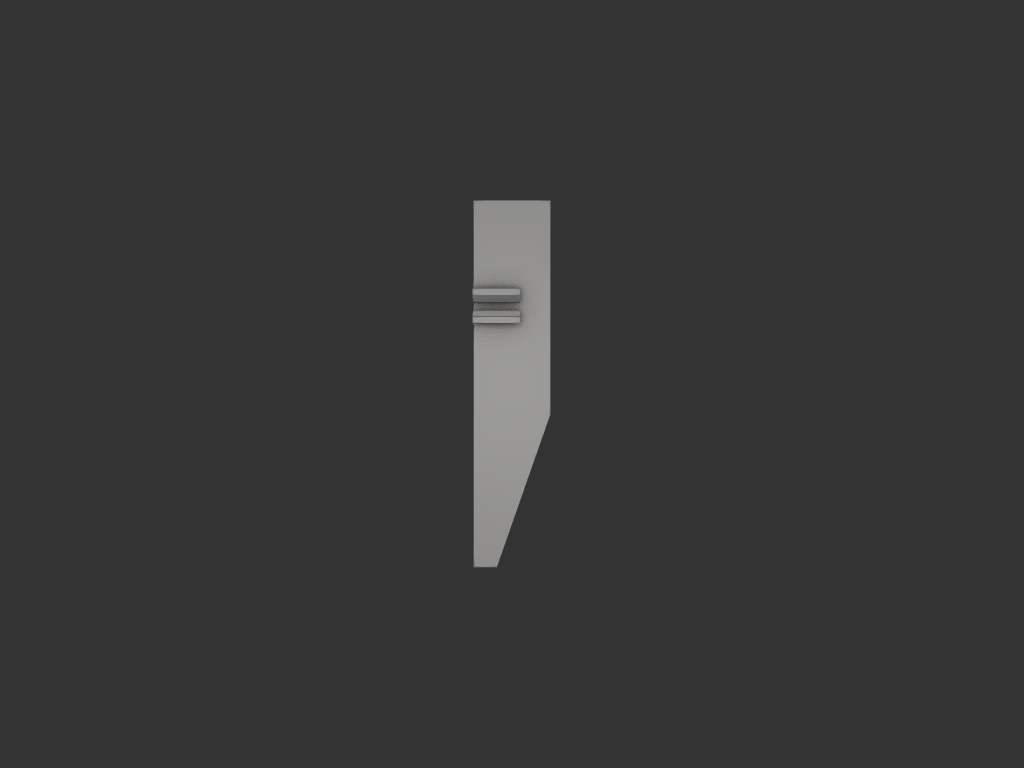
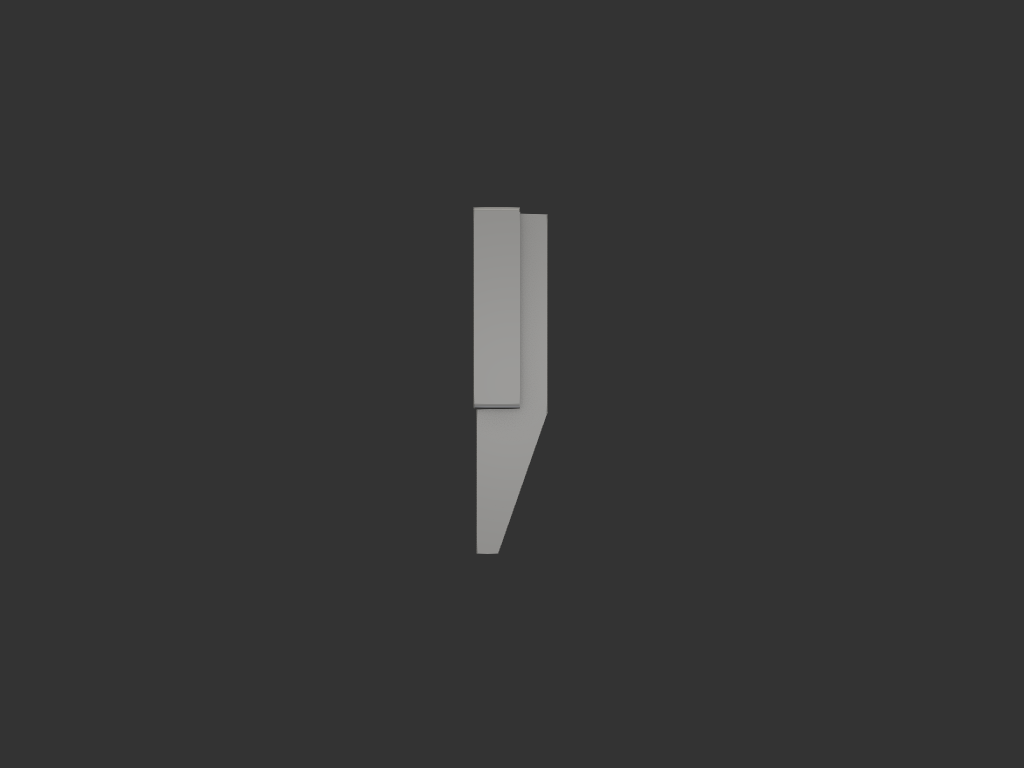
igt_assembly_jig v2: 누름 요철 제거, D-핸들 그립으로 재설계
- 출력 테스트: 누름 요철은 그립에 도움 안 됨 → 제거 (누름 도구는 별도 파트로)
- D-핸들: 창 50H × 손가락 틈 30, 바 4×15(전단 하중이라 얇게), 스트럿 8
- 창 안쪽 테두리 1.5 챔퍼 (손 보호), 정렬변 배치로 뉘여 출력 서포트리스 유지

diff --git a/models/camping/igt_assembly_jig/model.py b/models/camping/igt_assembly_jig/model.py
@@ -17,6 +17,7 @@
 
 from build123d import (
     Align,
+    Axis,
     Box,
     BuildPart,
     BuildSketch,
@@ -24,7 +25,9 @@ from build123d import (
     Mode,
     Plane,
     Polygon,
+    chamfer,
     extrude,
+    fillet,
 )
 
 from models._lib.iter import finalize_iteration
@@ -47,14 +50,19 @@ Y_NARROW = WALL + GAP          # 7
 Y_OUT = WALL + GAP + WALL      # 11 U바닥 바깥 두께
 Z_TAPER = H - GRIP_H           # 50 테이퍼 상단
 
-# ---- 누름 가이드 요철 (넓은 다리 바깥면, 그립 구간 가운데) ----
-# 요철 2줄 사이 3mm 홈에 철판 테두리를 물려 위에서 찍어누르는 가이드
-# + 뽑을 때 손가락 걸리는 그립. 정렬변(x=0) 쪽에 붙여 뉘여 출력 시 베드 접지.
-RIB_L = 15.0       # 요철 길이 (X, 정렬변에서 시작)
-RIB_T = 4.0        # 요철 두께 (Z)
-RIB_P = 10.0       # 돌출 (−Y)
-RIB_CH = 2.0       # 홈 입구 45° 챔퍼 (철판 유도)
-Z_RIB_C = (Z_TAPER + H) / 2    # 85 그립 구간 가운데
+# ---- D-핸들 (넓은 다리 바깥면 −Y, 그립 구간) ----
+# 출력 테스트 결과 누름 요철은 그립에 도움 안 돼 제거(v2). 손가락 2~3개를
+# 면과 바 사이 틈에 끼워 감아쥐는 세로 바 — 수직 인양에 유리.
+# 정렬변(x=0)에 붙여 뉘여 출력 시 베드 접지 (서포트리스).
+HDL_W = 15.0       # 핸들 폭 (X, 정렬변에서 시작)
+HDL_GAP = 30.0     # 손가락 틈 (면 ↔ 바 안쪽) — 장갑 고려
+HDL_BAR = 4.0      # 바 두께 (Y) — 하중은 스트럿으로 빠지는 전단이라 얇게
+HDL_Z0 = 52.0      # 핸들 하단
+HDL_Z1 = 118.0     # 핸들 상단
+HDL_STRUT = 8.0    # 위아래 연결 스트럿 두께 → 창(손가락) 높이 50
+HDL_R_IN = 6.0     # 창 안쪽 코너 필렛
+HDL_R_OUT = 1.5    # 바 바깥 코너 필렛 (바 4mm 안에서)
+HDL_CH = 1.5       # 창 안쪽 테두리 챔퍼 (손가락 닿는 모서리)
 
 
 def build_jig():
@@ -88,28 +96,37 @@ def build_jig():
             )
         extrude(ch.sketch, amount=W_TIP, mode=Mode.SUBTRACT)
 
-        # 누름 가이드 요철 2줄 (아래/위), 사이 홈 = GAP(3mm)
-        z_lo = Z_RIB_C - GAP / 2 - RIB_T   # 79.5 아래 요철 하단
-        z_hi = Z_RIB_C + GAP / 2           # 86.5 위 요철 하단
-        for z0 in (z_lo, z_hi):
-            with Locations((0, -RIB_P, z0)):
-                Box(RIB_L, RIB_P, RIB_T,
-                    align=(Align.MIN, Align.MIN, Align.MIN))
-        # 홈 입구(요철 끝, y=-RIB_P) 45° 챔퍼 — 홈이 3→7mm 로 벌어짐
-        with BuildSketch(Plane.YZ) as rch:
-            Polygon(   # 아래 요철의 홈쪽 모서리
-                (-RIB_P, z_lo + RIB_T),
-                (-RIB_P + RIB_CH, z_lo + RIB_T),
-                (-RIB_P, z_lo + RIB_T - RIB_CH),
+        # D-핸들: YZ 프로파일 C자 (스트럿 2 + 바) → X로 HDL_W 압출
+        y_bar_in = -HDL_GAP                 # 바 안쪽면
+        y_out = -(HDL_GAP + HDL_BAR)        # 바 바깥면
+        with BuildSketch(Plane.YZ) as hp:
+            outline = Polygon(
+                (0.0, HDL_Z0),
+                (y_out, HDL_Z0),
+                (y_out, HDL_Z1),
+                (0.0, HDL_Z1),
+                (0.0, HDL_Z1 - HDL_STRUT),
+                (y_bar_in, HDL_Z1 - HDL_STRUT),
+                (y_bar_in, HDL_Z0 + HDL_STRUT),
+                (0.0, HDL_Z0 + HDL_STRUT),
                 align=None,
             )
-            Polygon(   # 위 요철의 홈쪽 모서리
-                (-RIB_P, z_hi),
-                (-RIB_P + RIB_CH, z_hi),
-                (-RIB_P, z_hi + RIB_CH),
-                align=None,
-            )
-        extrude(rch.sketch, amount=RIB_L, mode=Mode.SUBTRACT)
+            near = lambda v, t: abs(v - t) < 0.01
+            vs = hp.vertices()
+            fillet([v for v in vs if near(v.X, y_bar_in)
+                    and v.Y in (HDL_Z0 + HDL_STRUT, HDL_Z1 - HDL_STRUT)],
+                   HDL_R_IN)
+            fillet([v for v in vs if near(v.X, y_out)], HDL_R_OUT)
+        extrude(hp.sketch, amount=HDL_W)
+
+        # 창 안쪽 테두리(손가락 닿는 모서리) 챔퍼 — x=0/15 양쪽 면의
+        # 창 경계 에지 중 몸체(y=0) 접합부·바깥 프로파일 제외
+        near = lambda v, t: abs(v - t) < 0.01
+        win = [e for e in part.edges()
+               if (near(e.center().X, 0.0) or near(e.center().X, HDL_W))
+               and -(HDL_GAP + 1) < e.center().Y < -1.0
+               and HDL_Z0 + 3 < e.center().Z < HDL_Z1 - 3]
+        chamfer(win, HDL_CH)
 
     return part.part
 

diff --git a/models/camping/igt_assembly_jig/README.md b/models/camping/igt_assembly_jig/README.md
@@ -18,17 +18,16 @@ U자 틈에 물리고, 두 다리를 한손에 모아쥐고 들어올린다.
 | 넓은 다리 | 위 70mm 폭 25 (그립) → 아래 50mm 테이퍼로 7.5 | 테이퍼는 한쪽 변만, 반대 변은 두 다리 면일치 |
 | 좁은 다리 | 폭 7.5 일정 | 슬롯(8.5, r 고려 평평 7.5)에 맞춤 |
 | 유도 챔퍼 | 좁은 다리 위 안쪽 45° | 틈 입구 3→7mm 깔때기 — 철판 테두리 유도 |
-| 누름 가이드 요철 | 2줄 × (15L × 10P × 4T), 홈 3mm | 넓은 다리 바깥면, 그립 구간 가운데(z85). 입구 2mm 챔퍼 |
+| D-핸들 | 창 50H × 틈 30, 바 4×15, 스트럿 8 | 넓은 다리 바깥면 z52~118. 손가락 2~3개 감아쥐는 세로 바. 창 안쪽 1.5 챔퍼 |
 
 ## 사용법 / 하중 경로
 
 1. 좁은 다리 쪽을 슬롯에 비스듬히 위쪽으로 걸어 넣기 (챔퍼가 유도)
 2. 철판 슬롯 테두리가 3mm 틈 안으로 들어가게 세우기
-3. 넓은 다리(25) + 좁은 다리(7.5) 상단을 한손에 모아쥐고 인양
-   — 하중: 철판 테두리 → U바닥 윗면 → 다리 → 손
-4. (끼울 때) 넓은 면의 요철 홈에 철판 테두리를 물리고 위에서 찍어눌러
-   자리에 앉힘. 요철은 뽑을 때 손가락 그립도 겸함
-   — 요철은 정렬변(x=0) 쪽에 붙임: 뉘여 출력 시 베드 접지(서포트리스 유지)
+3. D-핸들 창에 손가락 2~3개를 끼워 바를 감아쥐고 인양
+   — 하중: 철판 테두리 → U바닥 윗면 → 다리 → 핸들 스트럿 → 손
+   — 핸들은 정렬변(x=0) 쪽에 붙임: 뉘여 출력 시 베드 접지(서포트리스)
+4. 끼울 때 찍어누르는 도구는 별도 파트로 예정 (v2에서 분리 결정)
 
 ## 재료/공정
 
@@ -45,5 +44,9 @@ U자 틈에 물리고, 두 다리를 한손에 모아쥐고 들어올린다.
 ## 상태
 
 - iter_001: 스케치 기반 최초 형상 — bbox/단면 수치 검증 완료
-- iter_002: (피드백) 누름 가이드 요철 추가 — 요철 2줄, 홈 3mm, 입구 2mm
-  챔퍼. 정렬변 쪽 배치로 서포트리스 유지. 단면 수치 검증 완료
+- iter_002: (피드백) 누름 가이드 요철 추가 — 요철 2줄, 홈 3mm
+- iter_003: (출력 테스트) 요철이 그립에 도움 안 됨 → 제거. 누름 도구는
+  별도 파트로 분리하기로
+- iter_004: 손가락 걸이 2개(옆모서리) 시안 → 방향 폐기
+- iter_005~007: D-핸들 확정 — 창 50, 틈 24→30(장갑), 바 10→4(전단 하중),
+  창 안쪽 1.5 챔퍼 (손 보호)
